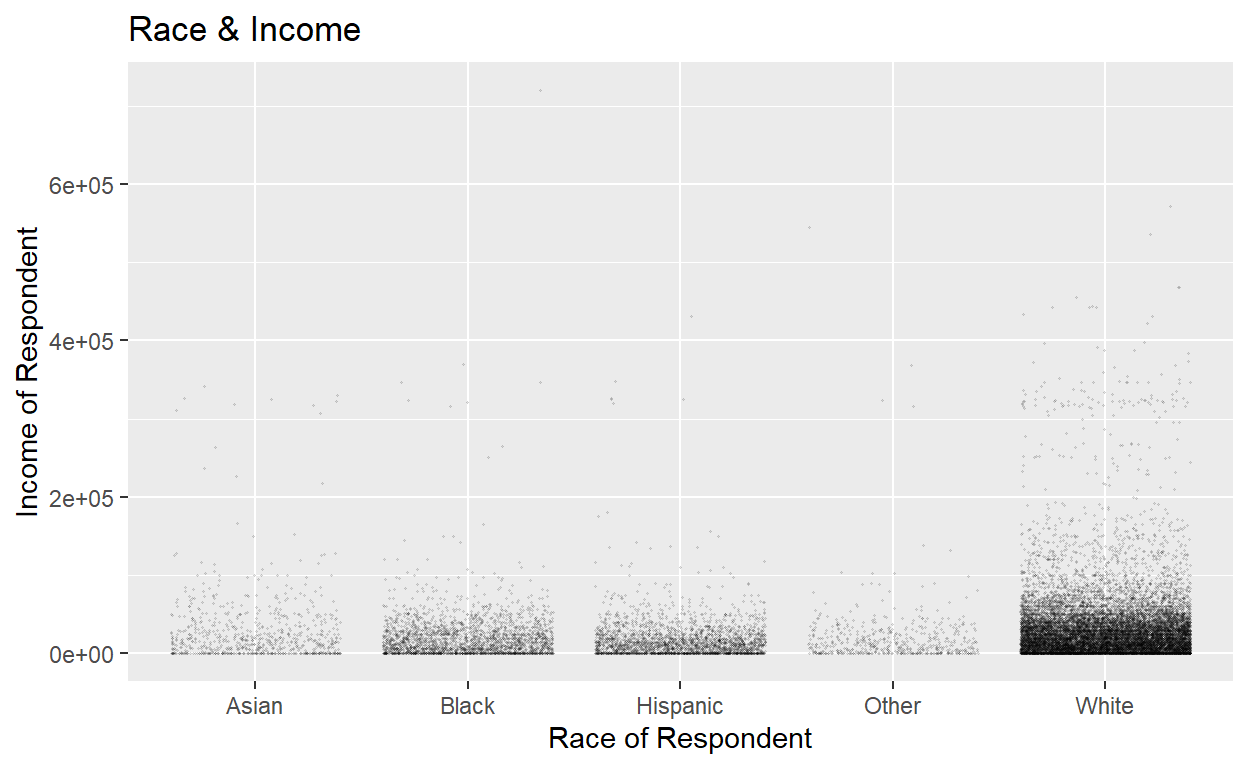
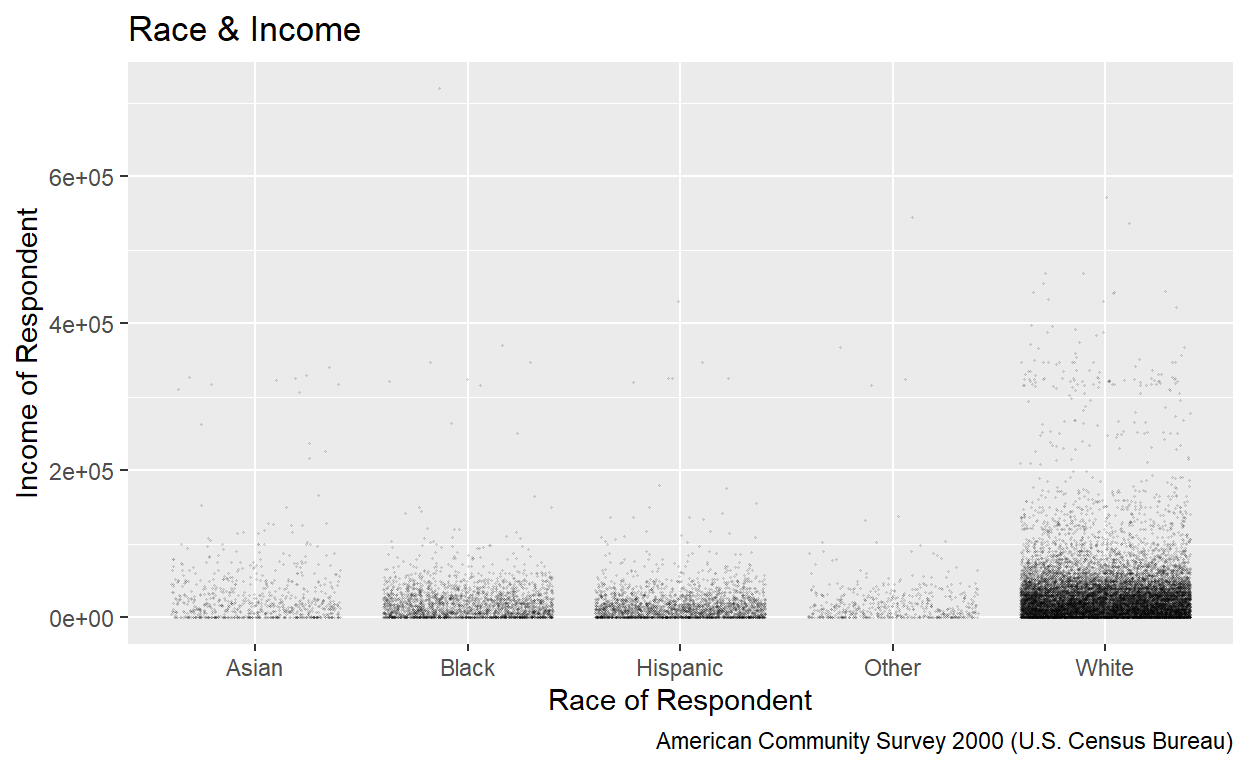
updated caption

diff --git a/index.html b/index.html
@@ -1531,7 +1531,7 @@ code span.wa { color: #5e5e5e; font-style: italic; } /* Warning */
 <span><span class='kw'><a href='https://rdrr.io/r/base/library.html'>library</a></span><span class='op'>(</span><span class='va'><a href='https://tidyverse.tidyverse.org'>tidyverse</a></span><span class='op'>)</span></span>
 <span><span class='va'>acs</span> <span class='op'>&lt;-</span> <span class='fu'><a href='https://rdrr.io/r/base/readRDS.html'>readRDS</a></span><span class='op'>(</span><span class='st'>"acs.rds"</span><span class='op'>)</span></span>
 <span></span>
-<span><span class='va'>P1</span> <span class='op'>&lt;-</span> <span class='fu'><a href='https://ggplot2.tidyverse.org/reference/ggplot.html'>ggplot</a></span><span class='op'>(</span><span class='va'>acs</span>, <span class='fu'><a href='https://ggplot2.tidyverse.org/reference/aes.html'>aes</a></span><span class='op'>(</span>x <span class='op'>=</span> <span class='va'>race</span>, y <span class='op'>=</span> <span class='va'>income</span><span class='op'>)</span><span class='op'>)</span> <span class='op'>+</span> <span class='fu'><a href='https://ggplot2.tidyverse.org/reference/geom_jitter.html'>geom_jitter</a></span><span class='op'>(</span>size <span class='op'>=</span> <span class='fl'>.25</span>, alpha <span class='op'>=</span> <span class='fl'>.1</span><span class='op'>)</span> <span class='op'>+</span> <span class='fu'><a href='https://ggplot2.tidyverse.org/reference/labs.html'>labs</a></span><span class='op'>(</span>title <span class='op'>=</span> <span class='st'>"Race &amp; Income"</span>, x <span class='op'>=</span> <span class='st'>"Race of Respondent"</span>, y <span class='op'>=</span> <span class='st'>"Income of Respondent"</span><span class='op'>)</span></span>
+<span><span class='va'>P1</span> <span class='op'>&lt;-</span> <span class='fu'><a href='https://ggplot2.tidyverse.org/reference/ggplot.html'>ggplot</a></span><span class='op'>(</span><span class='va'>acs</span>, <span class='fu'><a href='https://ggplot2.tidyverse.org/reference/aes.html'>aes</a></span><span class='op'>(</span>x <span class='op'>=</span> <span class='va'>race</span>, y <span class='op'>=</span> <span class='va'>income</span><span class='op'>)</span><span class='op'>)</span> <span class='op'>+</span> <span class='fu'><a href='https://ggplot2.tidyverse.org/reference/geom_jitter.html'>geom_jitter</a></span><span class='op'>(</span>size <span class='op'>=</span> <span class='fl'>.25</span>, alpha <span class='op'>=</span> <span class='fl'>.1</span><span class='op'>)</span> <span class='op'>+</span> <span class='fu'><a href='https://ggplot2.tidyverse.org/reference/labs.html'>labs</a></span><span class='op'>(</span>title <span class='op'>=</span> <span class='st'>"Race &amp; Income"</span>, x <span class='op'>=</span> <span class='st'>"Race of Respondent"</span>, y <span class='op'>=</span> <span class='st'>"Income of Respondent"</span>, caption <span class='op'>=</span> <span class='st'>"American Community Survey 2000 (U.S. Census Bureau)"</span><span class='op'>)</span></span>
 <span><span class='va'>P1</span></span></code></pre>
 </div>
 <p><img src="index_files/figure-html5/unnamed-chunk-1-1.png" width="624" /></p>
